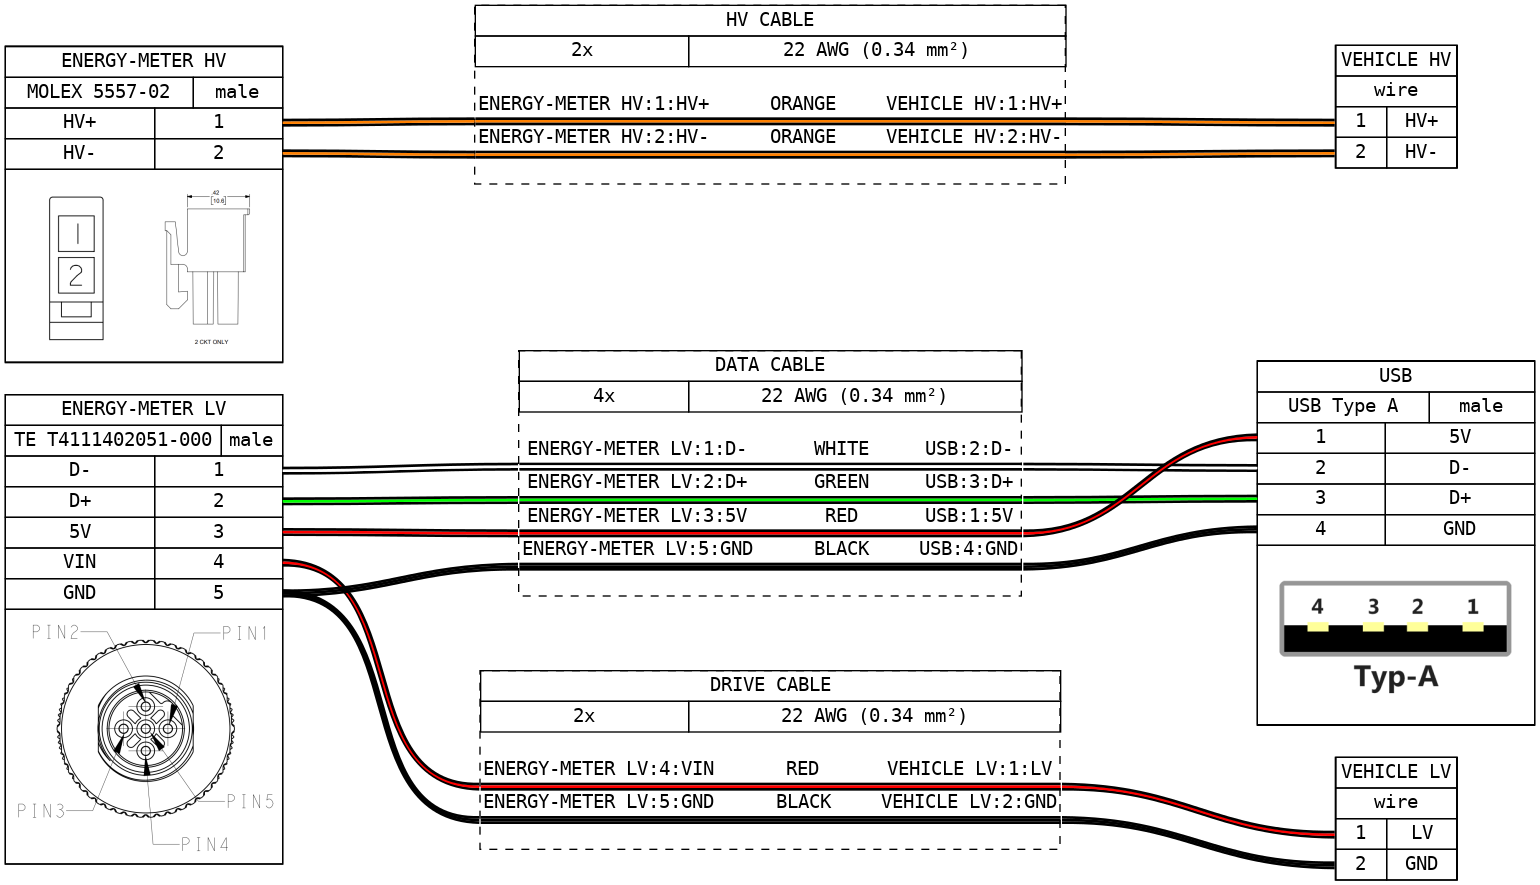
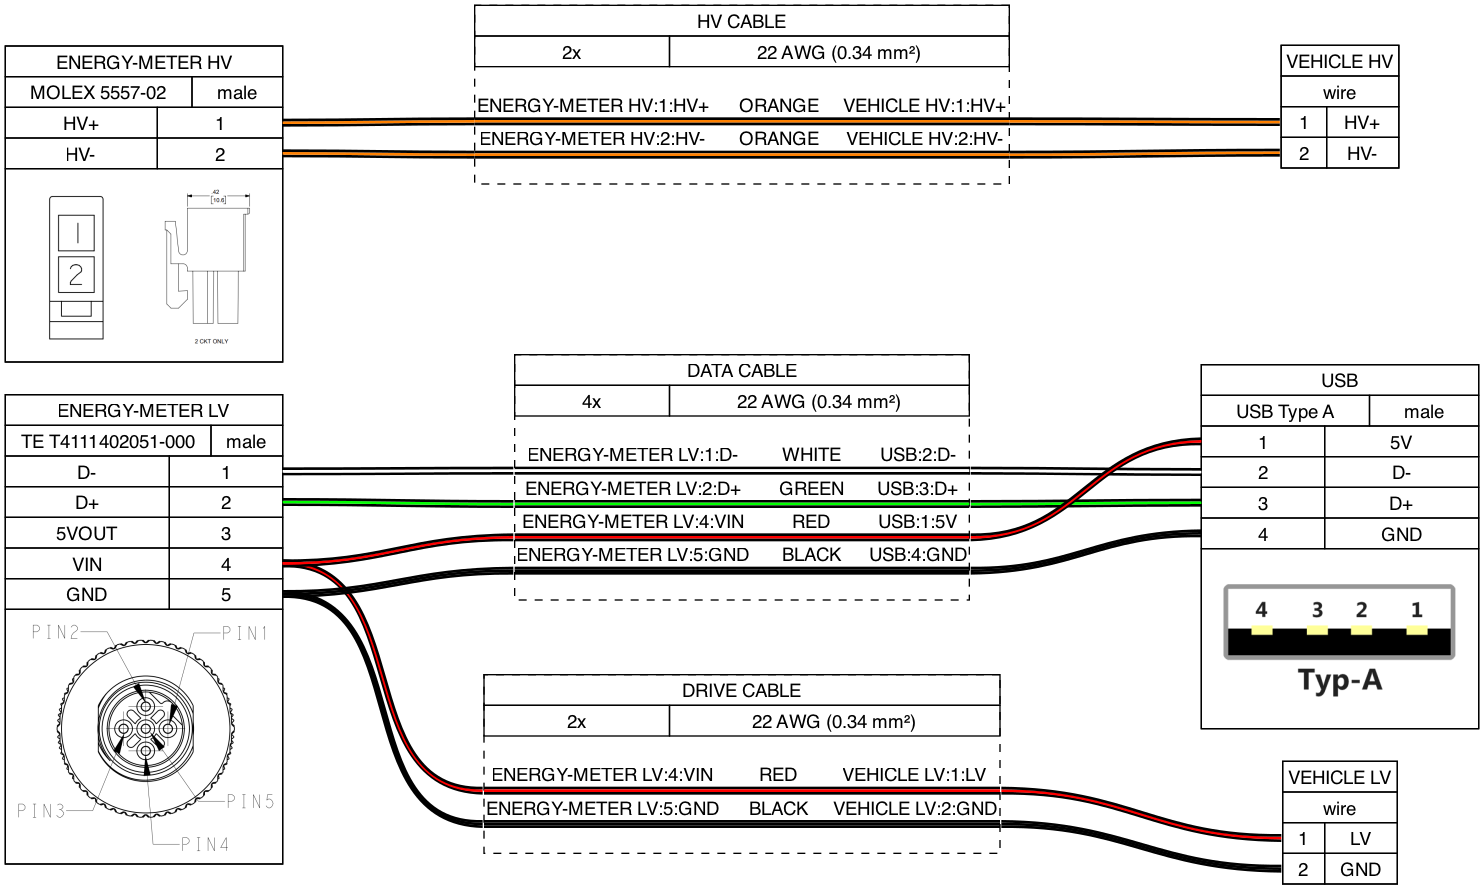
fix: VBUS voltage detection to judge operation mode

Changed region(s): [[0.0, 0.0, 1.0, 1.0], [0.372, 0.7932, 0.403, 0.8237]]

diff --git a/device/firmware/Core/Src/energymeter.c b/device/firmware/Core/Src/energymeter.c
@@ -16,6 +16,9 @@ extern uint32_t adc[];
 char filename[128];
 
 void energymeter_init(void) {
+  // wait for enough VBUS voltage to judge the mode
+  HAL_Delay(300);
+
   // read 96-bit device UID
   uid[0] = HAL_GetUIDw0();
   uid[1] = HAL_GetUIDw1();
@@ -28,9 +31,8 @@ void energymeter_init(void) {
   while (adc_flag != TRUE);
   adc_flag = FALSE;
 
-  // if LV < 5V, that means the VBUS is not present and is powered by USB
-  // so let's check LV < 3.3V. value is in 0.01 V unit
-  if (adc[ADC_LV_VOLTAGE] < 330) {
+  // if LV < 6V, the VBUS is not present and is powered by USB
+  if (adc[ADC_LV_VOLTAGE] < 600) { // 0.01 V unit
     DEBUG_MSG("MODE: USB\n");
     mode = EEM_MODE_USB;
 

diff --git a/README.md b/README.md
@@ -13,12 +13,19 @@
 
 | | MIN | TYP | MAX | UNIT |
 |:-:|:-:|:-:|:-:|:-:|
-| Supply Voltage | 7 | 15 | 28 | V |
-| Power consumption | | 1.5 | 2 | W |
-| HV bus voltage | | | 600 | V |
-| HV bus current | | 600 | 750 | A |
+| Supply voltage<sup>1</sup> | 6 | 15 | 28 | V |
+| Power consumption | | 0.5 | 1 | W |
+| HV bus voltage | 0 | | 600 | V |
+| HV bus voltage resolution | | 0.48 | 0.24 | V |
+| HV bus current | -750 | | 750 | A |
+| HV bus current resolution | | 1.28 | 0.64 | A |
 | Operational temperature | -10 | | 80 | °C |
 | IP rating | | IP 20 | | |
+| Startup time |  | 300 | | ms |
+| Record interval |  | 10 | 15 | ms |
+| Possible data loss<br>on power brownout | 0 | | 100 | ms |
+
+<sup>1</sup> When powered by USB, the device could startup with a minimum supply voltage of 4.5 V.
 
 ## Connectors
 
@@ -27,12 +34,17 @@
 | Image | ![](.github/assets/lv.png) | ![](.github/assets/hv.png) |
 | Model | [T4145415051-001](https://www.te.com/en/product-T4145415051-001.html) | [39291028](https://www.molex.com/en-us/products/part-detail/39291028) |
 | Mate | [T4111402051-000](https://www.te.com/en/product-T4111402051-000.html) | [5557-02](https://www.molex.com/en-us/part-list/5557?physical_circuitsMaximum=%222%22&physical_numberOfRows=%222%22) |
-| Pinout | 1: `D-`<br>2: `D+`<br>3: `5V`<br>4: `VIN`<br>5: `GND` | 1: `HV+`<br>2: `HV-` |
+| Pinout | 1: `D-`<br>2: `D+`<br>3: `5VOUT`<sup>1</sup><br>4: `VIN`<br>5: `GND` | 1: `HV+`<br>2: `HV-` |
+
+<sup>1</sup> `5VOUT` is not used by the device. It outputs 5V and can drive current up to 800mA.
 
 ### Wiring
 
 > [!CAUTION]
 > Misconnection of the pins may cause permanent damage to the device.
+
+> [!WARNING]
+> When powered by USB, 5V rail of the USB must be connected to `VIN`, not `5VOUT`.
 
 ![](.github/assets/wire.png)
 
@@ -43,7 +55,7 @@
 [device/hardware/jlcpcb/production_files/](https://github.com/luftaquila/fsk-energymeter/tree/main/device/hardware/jlcpcb/production_files) directory includes gerber, BOM and CPL files for the JLCPCB PCBA(SMT) order.
 
 > [!TIP]
-> Exclude LV connector and `L01Z600S05` Hall sensor from the SMT assembly list. Purchase these parts from the global suppliers and solder it yourself to make the device cheaper.
+> Exclude through-hole components(HV and LV connector, debug pin header and `L01Z600S05` Hall sensor) from the SMT assembly list. Purchase these parts from the global suppliers and solder it yourself to purchase them cheaper and reduce the setup fee.
 
 ### Firmware
 
